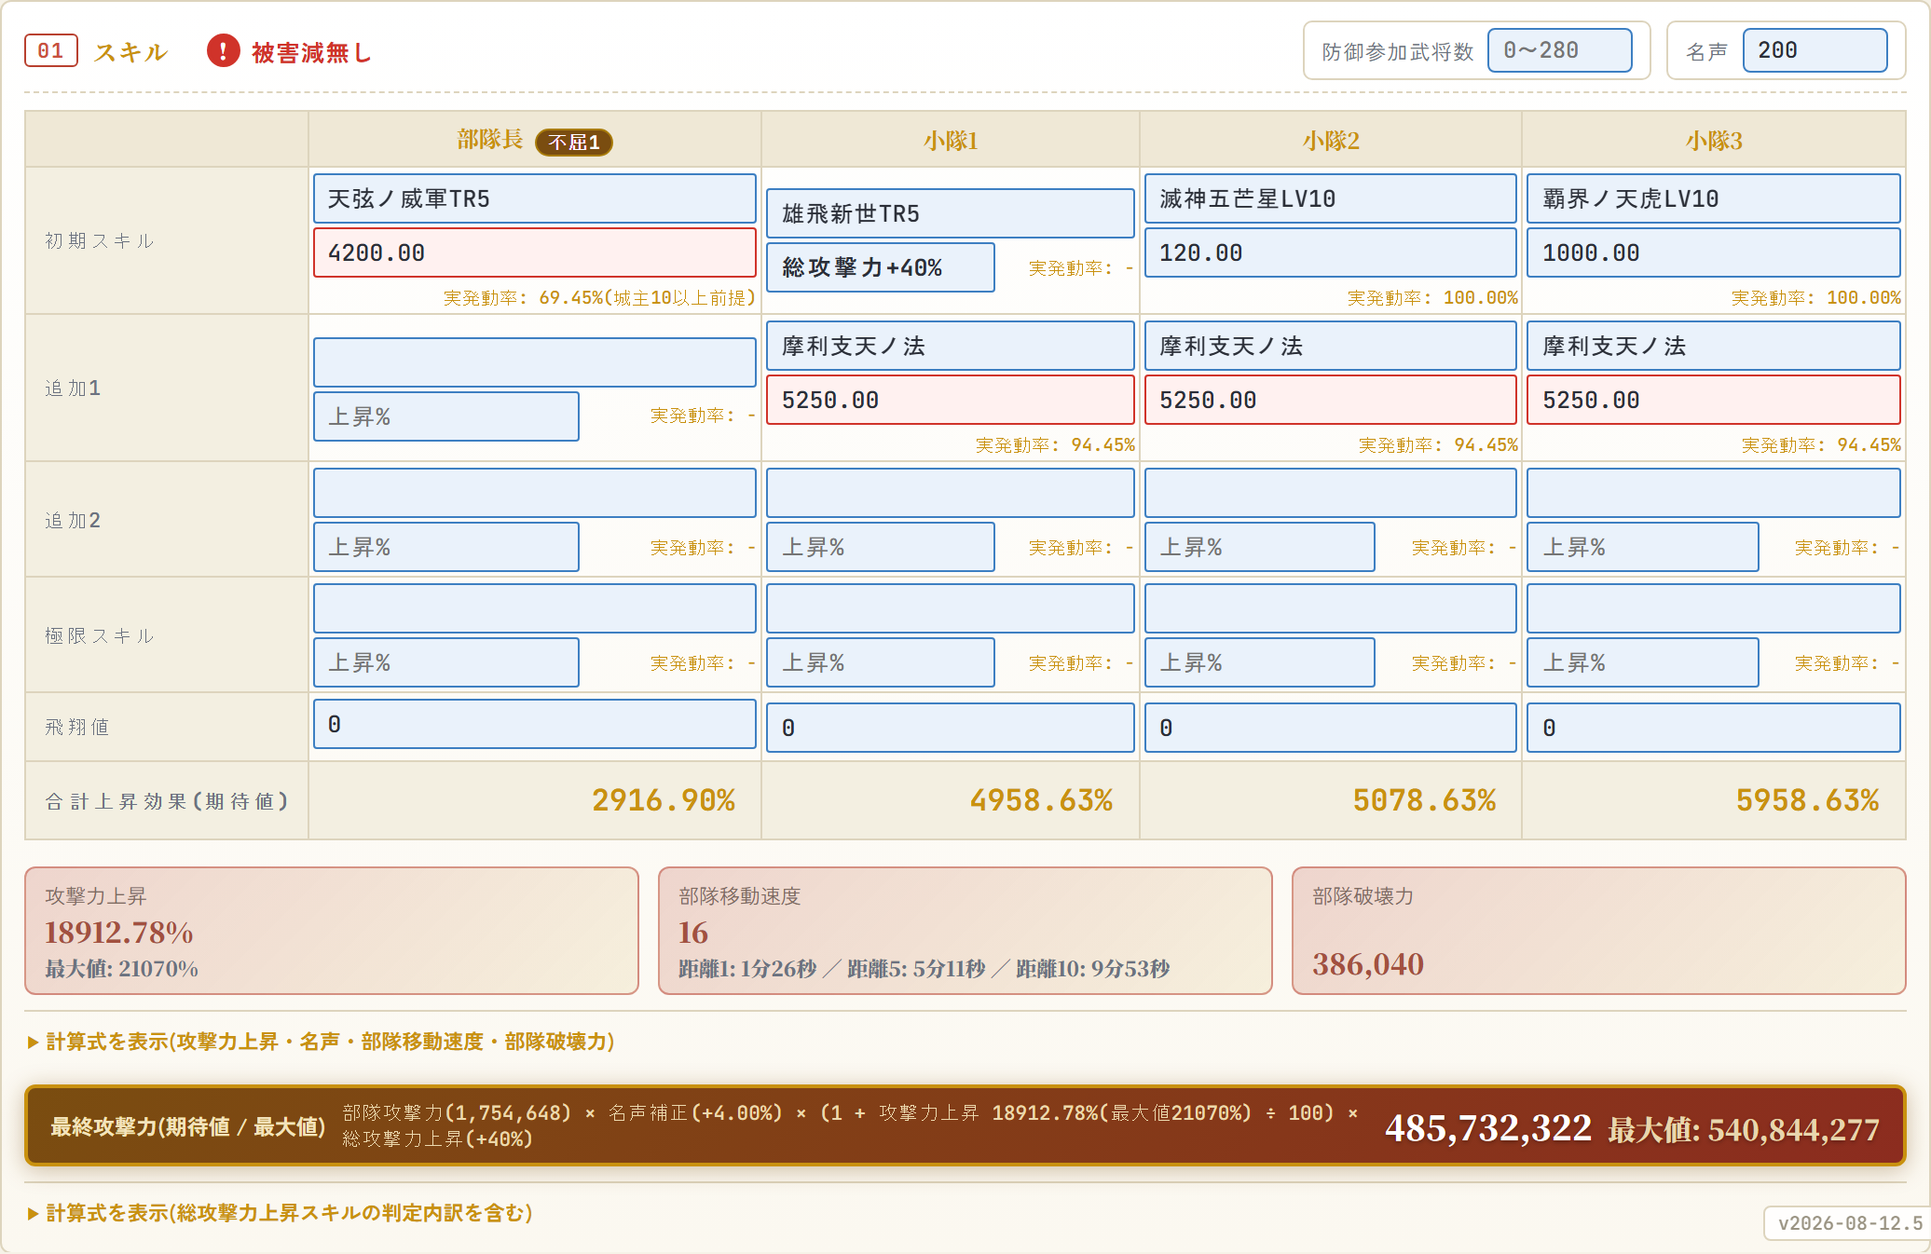
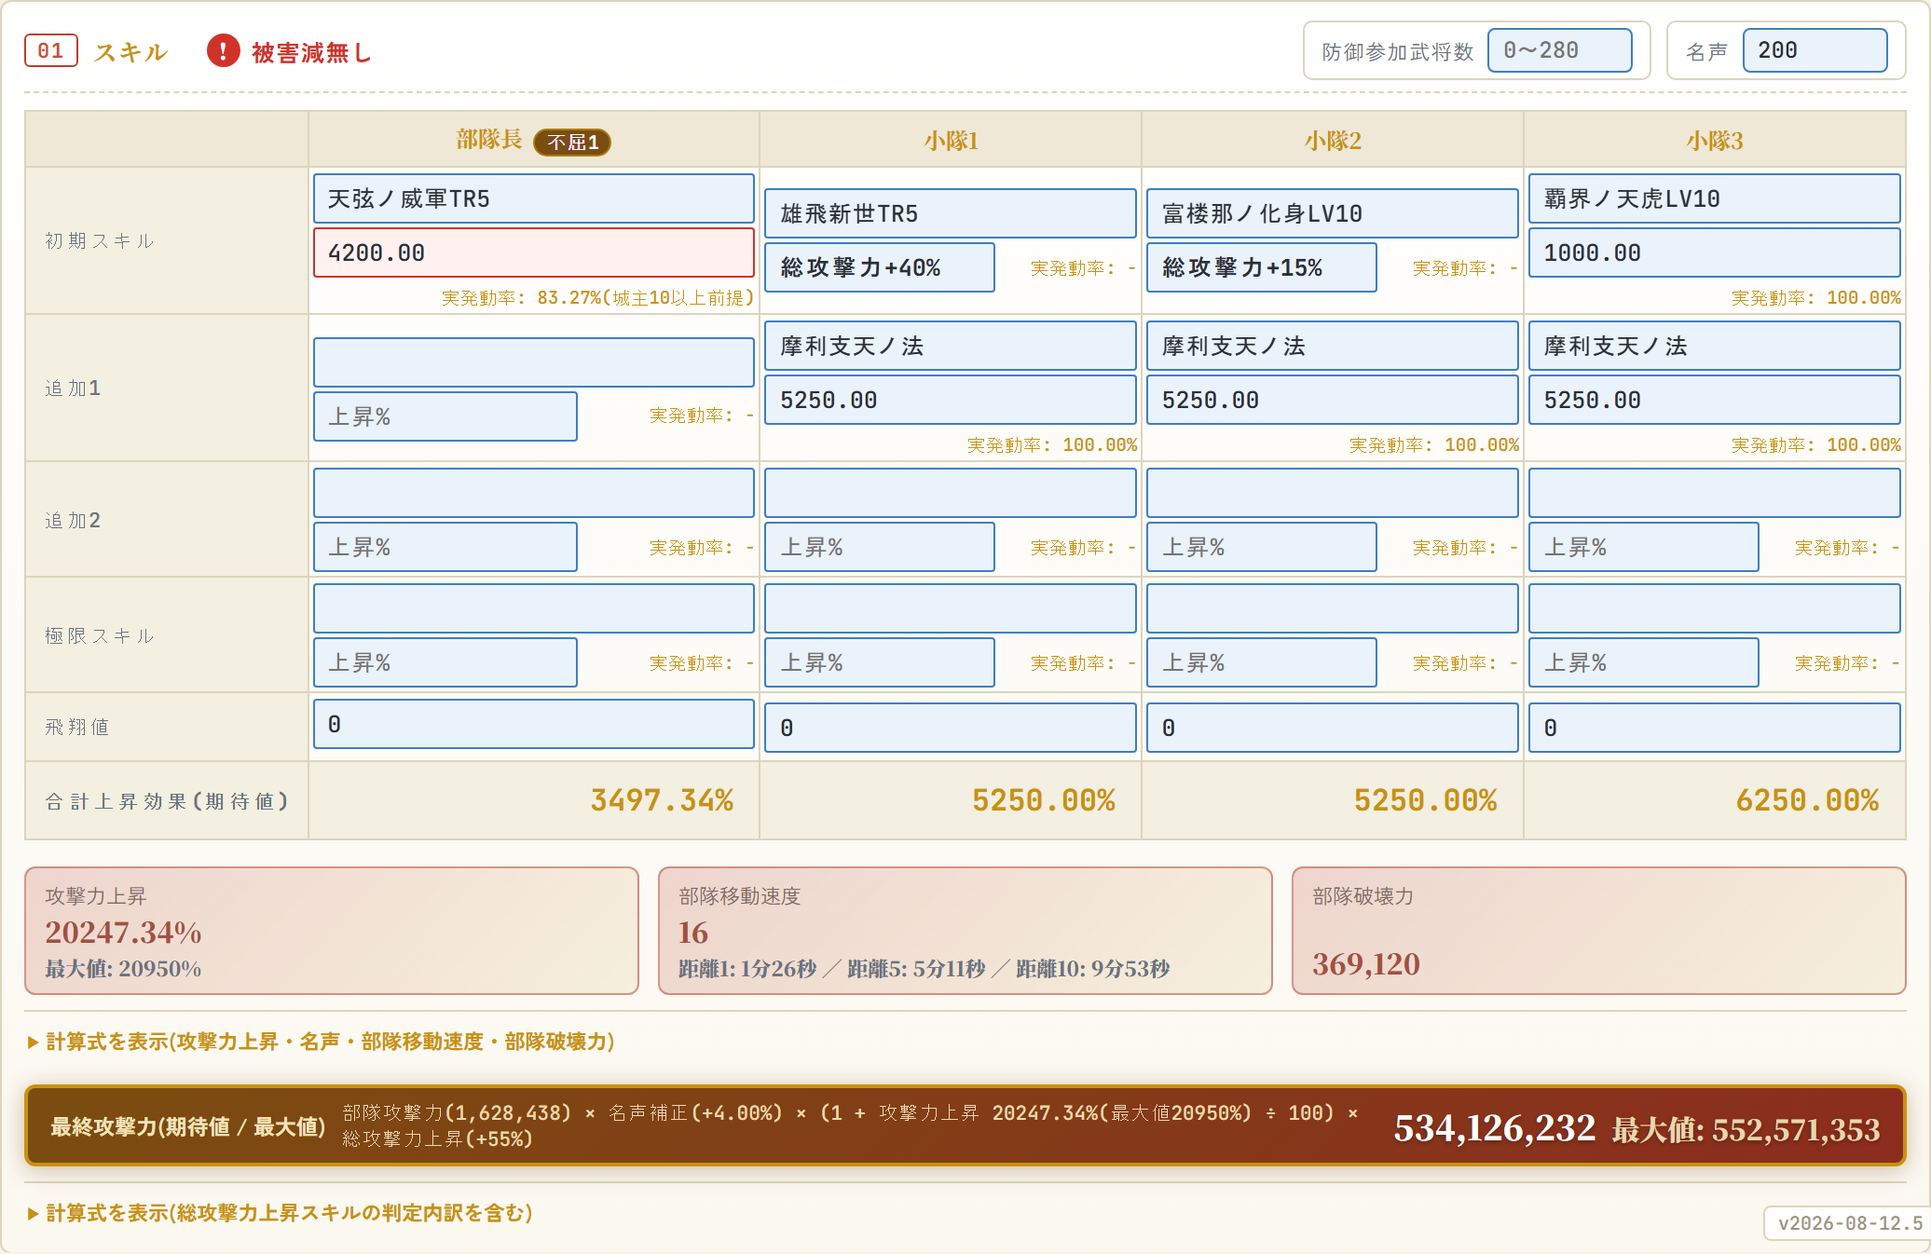
使い方記事: 小隊2を斎藤朝信(2439)・兵法振りに差し替え、チェックボックスの説明を追加
4人とも攻撃振りだと、ステ振りが選べること自体が画像から分からない。
小隊2を斎藤朝信(2439)に替えて兵法振りにした。同じ4人のまま小隊2の
ステ振りだけを切り替えて実測したところ、発動率ボーナス+24.02%→+38.27%、
最終攻撃力(期待値)5億599万→5億3412万。摩利支天ノ法が94%台から100%に
届いて赤枠から青枠に変わるため、赤枠の意味の説明にもそのまま使える。

あわせて指摘対応:
・武将名欄はカードNo.でも検索できることを追記(実機で確認)
・条件を満たしたときだけ出るチェックボックスの節を新設。兵士欄の
  カード所持効果(焙烙火矢=藤林長門守/騎馬鉄砲=国友善兵衛/鉄砲足軽=
  芝辻清右衛門/穴太衆・大筒兵=三浦按針、いずれも兵攻+1兵防+1、
  1列入れると4列同期)と、織田信長/三郎信長のときだけ出る弥助(2430)
  (突破ランク選択つき、+240/+640/+960、列ごとに独立)。全て実機で裏取り
・リード文を削除(題名に版が入っているため)
・残っていた「ぶん」を「分」に

データ修正: ixa-data.jsの斎藤朝信(2439)にcost:4が無く「コスト不明」と
表示されていた。同エントリのnoteとcharacters-kyoku.htmlの登録値(cost:4、
reviewedOk:true)が一致しているため補完。

diff --git a/blog-attack-simulator-guide.html b/blog-attack-simulator-guide.html
@@ -37,7 +37,6 @@
   <main class="site-main article-page">
     <p class="article-meta"><a href="blog.html">記事一覧</a> ／ 2026年8月12日</p>
     <h1 class="page-title">攻撃シミュレーターの使い方(v2026-08-12.5 時点)</h1>
-    <p class="page-lead">入れるのは兵士・武将名・スキルの3つだけです。あとは自動で計算されます。<br><span style="font-size:.88em;color:var(--muted);">この記事はv2026-08-12.5のシミュレーターを見て書いています。画面や数値はその時点のものです(版は画面右下に出ています)。</span></p>
 
     <div class="content-block">
       <p><a href="attack-simulator.html">攻撃/防御シミュレーター</a>は、部隊長と小隊1〜3の計4名分を入力すると、最終攻撃力までを自動で出すツールです。<br>
@@ -58,7 +57,7 @@
       <p>上から順に、</p>
       <ol>
         <li><strong>兵士</strong>をプルダウンで選ぶ。選ばずに計算を押すとエラーのダイアログが出て、選んでいない列の兵士欄が赤枠になります</li>
-        <li><strong>武将名</strong>を打つ。候補が出るので選べば、攻撃力・防御力・兵法値・指揮兵士数・統率が自動で入ります</li>
+        <li><strong>武将名</strong>を打つ。候補が出るので選べば、攻撃力・防御力・兵法値・指揮兵士数・統率が自動で入ります。<strong>カードNo.でも検索できます</strong>(「2439」と打てば斎藤朝信が出ます)。候補には名前の右にNo.が出るので、同名カードが並んだときはそこで見分けてください</li>
         <li><strong>スキル名</strong>を打つ。こちらも候補が出て、選ぶと発動率と上昇%が自動で入ります</li>
       </ol>
 
@@ -74,6 +73,42 @@
       <p>選ぶとスキル欄が「天弦ノ威軍TR5」のように<strong>段階つきの表記</strong>になります。段階を持たないスキルはこの選択が出ず、名前だけが入ります。<br>
       TR6が選べるのはパラレル天でのみ解禁される一部のスキルだけです。</p>
 
+      <h3>条件を満たしたときだけ出るチェックボックス</h3>
+
+      <p>入力の内容によっては、欄の下に小さなチェックボックスが現れます。<strong>常に出るものではなく、該当したときだけ出ます。持っているなら入れてください。</strong>持っていない場合は触らなければそのままです。</p>
+
+      <p><strong>1つめは兵士欄の下です。</strong>選んだ兵種の能力を上げるカードを持っている人向けのチェックで、兵種ごとに出るカードが決まっています。</p>
+
+      <div class="table-scroll">
+        <table class="article-table">
+          <thead><tr><th>選んだ兵士</th><th>出るチェック</th><th>効果</th></tr></thead>
+          <tbody>
+            <tr><td>焙烙火矢</td><td>藤林長門守所持</td><td>兵攻+1/兵防+1</td></tr>
+            <tr><td>騎馬鉄砲</td><td>国友善兵衛所持</td><td>兵攻+1/兵防+1</td></tr>
+            <tr><td>鉄砲足軽</td><td>芝辻清右衛門所持</td><td>兵攻+1/兵防+1</td></tr>
+            <tr><td>穴太衆・大筒兵</td><td>三浦按針所持</td><td>兵攻+1/兵防+1</td></tr>
+          </tbody>
+        </table>
+      </div>
+
+      <p>カードを持っているかどうかは部隊とは関係のない話なので、<strong>1つの列でチェックを入れると、同じ兵種を選んでいる他の列も自動で同じ状態になります</strong>。4か所を押して回る必要はありません。</p>
+
+      <p><strong>2つめは武将名欄の下です。</strong>武将名に<strong>織田信長</strong>または<strong>三郎信長</strong>を入れたときだけ、弥助(No.2430)のチェックが出ます。チェックを入れると弥助側の突破ランクを選ぶ欄が続けて出るので、自分の持っている弥助のランクを選んでください。指揮兵士数が次の分だけ増えます。</p>
+
+      <div class="table-scroll">
+        <table class="article-table">
+          <thead><tr><th>弥助のランク</th><th>指揮兵士数</th></tr></thead>
+          <tbody>
+            <tr><td>限界突破</td><td>+240</td></tr>
+            <tr><td>極限突破+0.5</td><td>+640</td></tr>
+            <tr><td>天限突破+0.5</td><td>+960</td></tr>
+          </tbody>
+        </table>
+      </div>
+
+      <p>こちらは列ごとの設定です。織田信長を2列に入れていても、片方のチェックがもう片方に移ることはありません。<br>
+      どちらのチェックも、下の入力後の画像に実際に出ています。</p>
+
       <p>4人分入れて「計算する」を押すと、こうなります。</p>
 
       <figure class="article-figure">
@@ -81,9 +116,15 @@
       </figure>
 
       <p>この記事では以降もこの編成のままで説明します。兵士は4列とも焙烙火矢、武将は部隊長から順に
-      <strong>六角定頼・織田信長(9)【覇】・明智光秀【覇】・織田信秀【覇】</strong>です。<br>
+      <strong>六角定頼・織田信長(9)【覇】・斎藤朝信(2439)・織田信秀【覇】</strong>です。<br>
       武将名を入れた時点で、それぞれの初期スキルが下のスキル欄に自動で入ります。3章の画像に出てくる
-      天弦ノ威軍・雄飛新世・滅神五芒星・覇界ノ天虎が、この4人の初期スキルです。</p>
+      天弦ノ威軍・雄飛新世・富楼那ノ化身・覇界ノ天虎が、この4人の初期スキルです。</p>
+
+      <p><strong>ステ振り</strong>は列ごとに選べます。上の画像では小隊2の斎藤朝信(2439)だけ兵法振りにしていて、
+      兵法値が500から2225まで伸びています。<br>
+      この1人のステ振りを変えるだけで発動率ボーナスが<strong>+24.02%から+38.27%</strong>に上がり、
+      最終攻撃力(期待値)も5億599万から5億3412万に増えました。斎藤朝信自身の攻撃力は下がっているので
+      部隊攻撃力は減りますが、部隊全員のスキルが発動しやすくなる分のほうが大きい、という例です。</p>
 
       <div class="article-gap3"></div>
     </div>
@@ -140,7 +181,7 @@
       </figure>
 
       <p>スキル名の下の数字が上昇%、その右下に出るのが<strong>実発動率</strong>です。実発動率は、スキル本来の発動率に発動率ボーナスを足した値(上限100%)です。<br>
-      この編成の発動率ボーナスは+24.45%なので、部隊長の天弦ノ威軍は本来の45%に足して69.45%、追加1に入れた摩利支天ノ法は70%に足して94.45%になっています。滅神五芒星と覇界ノ天虎はもともと100%なので、足しても100%どまりです。<br>
+      この編成の発動率ボーナスは+38.27%なので、部隊長の天弦ノ威軍は本来の45%に足して83.27%になっています。追加1の摩利支天ノ法は本来70%ですが、足すと100%を超えるため上限の100%です。覇界ノ天虎はもともと100%なので、足しても100%どまりです。<br>
       小隊1〜3の追加1に入れた摩利支天ノ法は部隊長の初期スキルを模倣するスキルで、その5250%は模倣元(天弦ノ威軍TR5)の4200%を1.25倍した値です。</p>
 
       <p><strong>上昇%の欄が赤枠になっているのは、その数字が満額では入らないという印です。</strong>条件は2つあり、どちらかに当たると赤くなります。</p>
@@ -150,13 +191,14 @@
         <li>卓越の抽選結果しだいで値が変わる(期待値と最大値がずれる)</li>
       </ol>
 
-      <p>上の画像だと天弦ノ威軍と摩利支天ノ法は1つ目に当たって赤枠です。滅神五芒星(120%)と覇界ノ天虎(1000%)が青枠なのは、実発動率が100%で卓越も持たないので、書いてある数字がそのまま入るからです。</p>
+      <p>上の画像で赤枠なのは部隊長の天弦ノ威軍だけです。実発動率が83.27%で、残りの16.73%は発動しないからです。<br>
+      摩利支天ノ法(5250%)と覇界ノ天虎(1000%)が青枠なのは、実発動率が100%で卓越も持たないので、書いてある数字がそのまま入るからです。摩利支天ノ法は本来70%のスキルですが、小隊2を兵法振りにして発動率ボーナスを積んだ結果100%に届き、赤枠から青枠に変わりました。<strong>赤枠を減らすことが、そのまま期待値を最大値に近づけることになります。</strong></p>
 
       <h3>総攻撃力を上げるスキルは別扱い</h3>
 
-      <p>小隊1の織田信長(9)【覇】を入れたことで初期スキルに入った雄飛新世TR5は、上昇%の欄が数字ではなく<strong>「総攻撃力+40%」</strong>という表示になっています。<br>
-      このタイプは16枠の上昇%の合計には入らず、<strong>最後に部隊全体へ掛け算されます</strong>。だから小隊1の「合計上昇効果」にもこの40%は入っていません。<br>
-      対象兵科を指揮している列がないと乗らないので、注意してください(雄飛新世は砲・器が対象なので、この編成では焙烙火矢で条件を満たしています)。</p>
+      <p>この編成には総攻撃力を上げるスキルが2つ入っています。小隊1の雄飛新世TR5が<strong>「総攻撃力+40%」</strong>、小隊2の富楼那ノ化身が<strong>「総攻撃力+15%」</strong>で、上昇%の欄が数字ではなくこの表示になります。<br>
+      このタイプは16枠の上昇%の合計には入らず、<strong>足し合わせてから最後に部隊全体へ掛け算されます</strong>。最終攻撃力の式の末尾に出ている「総攻撃力上昇(+55%)」がその合計です。だから小隊1・小隊2の「合計上昇効果」にはこの40%と15%は入っていません。<br>
+      対象兵科を指揮している列がないと乗らないので、注意してください(雄飛新世は砲・器、富楼那ノ化身は槍・砲・器が対象なので、この編成では焙烙火矢で両方とも条件を満たしています)。</p>
 
       <div class="article-gap3"></div>
     </div>
@@ -180,7 +222,7 @@
         </table>
       </div>
 
-      <p>上の例だと期待値4億8573万に対して最大値5億4084万で、5511万ほど差があります。この差は「発動しない枠がある」分です。<br>
+      <p>上の例だと期待値5億3412万に対して最大値5億5257万で、1844万ほど差があります。この差は「発動しない枠がある」分です。赤枠が部隊長の1枠だけなので、差もこの程度で収まっています。<br>
       <strong>発動率100%かつ卓越なし(または卓越確率100%)のスキルだけで組んだときだけ、期待値と最大値が一致します。</strong></p>
 
       <p>どちらを見るべきかは目的によります。1発の上振れを狙うなら最大値、何回も攻撃したときの平均を知りたいなら期待値です。</p>

diff --git a/assets/js/ixa-data.js b/assets/js/ixa-data.js
@@ -3570,7 +3570,7 @@ const generalGrowthDB = [
   { name:'弥助', no:'2430', rankGrades:{yari:'A',yumi:'B',uma:'B',ki:'A'}, initialSkill:'漆黒ノ牛鬼', lv0Troops:0, atkBase:800, atkGrowth:45, defBase:800, defGrowth:50, tacticsBase:500, tacticsGrowth:2.0, defaultBreakthrough:'天限突破', defaultStatAlloc:'攻撃振り', note:'ixanary.com(2026年7月確認)で登録。職業「将」。Cost0.5。指揮兵数(Lv0)は情報源記載値0(要再確認)。固有スキル「特:漆黒ノ牛鬼」(A)。 カード画像+ixawikiの2ソースで統率(槍A/弓B/馬B/器A)一致確認(2026-08-11)。武将DBページ(characters-kyoku.html)登録済み。' },
   { name:'柳生十兵衛(2432)', no:'2432', rankGrades:{yari:'S',yumi:'A',uma:'A',ki:'A'}, initialSkill:'柳生新陰当流', lv0Troops:3300, atkBase:1000, atkGrowth:65, defBase:1200, defGrowth:120, tacticsBase:500, tacticsGrowth:2.5, defaultBreakthrough:'天限突破', defaultStatAlloc:'攻撃振り', note:'ixanary.com(2026年7月確認)で登録。職業「将」。Cost3。固有スキル「柳生新陰当流」(A)。 カード画像+ixawikiの2ソースで統率(槍S/弓A/馬A/器A)一致確認(2026-08-11)。武将DBページ(characters-kyoku.html)登録済み。' },
   { name:'佐竹義重(2437)', no:'2437', rankGrades:{yari:'S',yumi:'A',uma:'A',ki:'A'}, initialSkill:'黒旋月光', lv0Troops:3850, atkBase:1140, atkGrowth:40, defBase:1050, defGrowth:35, tacticsBase:520, tacticsGrowth:3.0, defaultBreakthrough:'天限突破', defaultStatAlloc:'攻撃振り', note:'ixanary.com(2026年7月確認)で登録。職業「将」。Cost4。固有スキル「黒旋月光」(A)。 カード画像+ixawikiの2ソースで統率(槍S/弓A/馬A/器A)一致確認(2026-08-11)。武将DBページ(characters-kyoku.html)登録済み。同名の天カード(No.1047/1060/1182/1242)と区別するためNo併記。' },
-  { name:'斎藤朝信(2439)', no:'2439', rankGrades:{yari:'S',yumi:'A',uma:'A',ki:'A'}, initialSkill:'富楼那ノ化身', lv0Troops:3850, atkBase:1070, atkGrowth:42, defBase:1000, defGrowth:32, tacticsBase:500, tacticsGrowth:2.5, defaultBreakthrough:'天限突破', defaultStatAlloc:'攻撃振り', note:'ixanary.com(2026年7月確認)で登録。職業「将」。Cost4。固有スキル「攻:富楼那ノ化身」(A)。 カード画像+ixawikiの2ソースで統率(槍S/弓A/馬A/器A)一致確認(2026-08-11)。武将DBページ(characters-kyoku.html)登録済み。総攻撃力上昇スキルとしてspecialSkillsにも登録。同名の別カード(No.2059/2266/7020等)と区別するためNo併記。' },
+  { name:'斎藤朝信(2439)', no:'2439', cost: 4, rankGrades:{yari:'S',yumi:'A',uma:'A',ki:'A'}, initialSkill:'富楼那ノ化身', lv0Troops:3850, atkBase:1070, atkGrowth:42, defBase:1000, defGrowth:32, tacticsBase:500, tacticsGrowth:2.5, defaultBreakthrough:'天限突破', defaultStatAlloc:'攻撃振り', note:'ixanary.com(2026年7月確認)で登録。職業「将」。Cost4。固有スキル「攻:富楼那ノ化身」(A)。 カード画像+ixawikiの2ソースで統率(槍S/弓A/馬A/器A)一致確認(2026-08-11)。武将DBページ(characters-kyoku.html)登録済み。総攻撃力上昇スキルとしてspecialSkillsにも登録。同名の別カード(No.2059/2266/7020等)と区別するためNo併記。' },
   { name:'片倉景綱(2443)', no:'2443', rankGrades:{yari:'S',yumi:'A',uma:'A',ki:'A'}, initialSkill:'月下闇龍', lv0Troops:3340, atkBase:980, atkGrowth:34, defBase:1150, defGrowth:47, tacticsBase:520, tacticsGrowth:2.5, defaultBreakthrough:'天限突破', defaultStatAlloc:'攻撃振り', note:'ixanary.com(2026年7月確認)で登録。職業「将」。Cost3。固有スキル「月下闇龍」。 カード画像+ixawikiの2ソースで統率(槍S/弓A/馬A/器A)一致確認(2026-08-11)。武将DBページ(characters-kyoku.html)登録済み。初期スキルはS(月下闇龍・スキル個別ページ未作成、docsのTODO参照)。' },
   { name:'佐々木小次郎(2450)', no:'2450', rankGrades:{yari:'SS',yumi:'A',uma:'A',ki:'B'}, initialSkill:'巌流燕返し', lv0Troops:4900, atkBase:1270, atkGrowth:60, defBase:1550, defGrowth:80, tacticsBase:520, tacticsGrowth:2.5, defaultBreakthrough:'天限突破', defaultStatAlloc:'攻撃振り', note:'ixanary.com(2026年7月確認)で登録。職業「剣」。Cost4.5。固有スキル「防:巌流燕返し」(S)。 カード画像+ixawikiの2ソースで統率(槍SS/弓A/馬A/器B)一致確認(2026-08-11)。武将DBページ(characters-kyoku.html)登録済み。初期スキルはS(巌流燕返し・スキル個別ページ未作成、docsのTODO参照)。同名の別カード(No.2019/2154/2571/10023)と区別するためNo併記。' },
   { name:'延沢満延', no:'2456', rankGrades:{yari:'S',yumi:'A',uma:'A',ki:'A'}, initialSkill:'八楯剛陣', lv0Troops:4470, atkBase:1090, atkGrowth:48, defBase:1120, defGrowth:62, tacticsBase:520, tacticsGrowth:2.5, defaultBreakthrough:'天限突破', defaultStatAlloc:'攻撃振り', note:'ixanary.com(2026年7月確認)で登録。職業「将」。Cost4.5。固有スキル「防:八楯剛陣」(S)。 カード画像+ixawikiの2ソースで統率(槍S/弓A/馬A/器A)一致確認(2026-08-11)。武将DBページ(characters-kyoku.html)登録済み。初期スキルはS(八楯剛陣・スキル個別ページ未作成、docsのTODO参照)。' },
